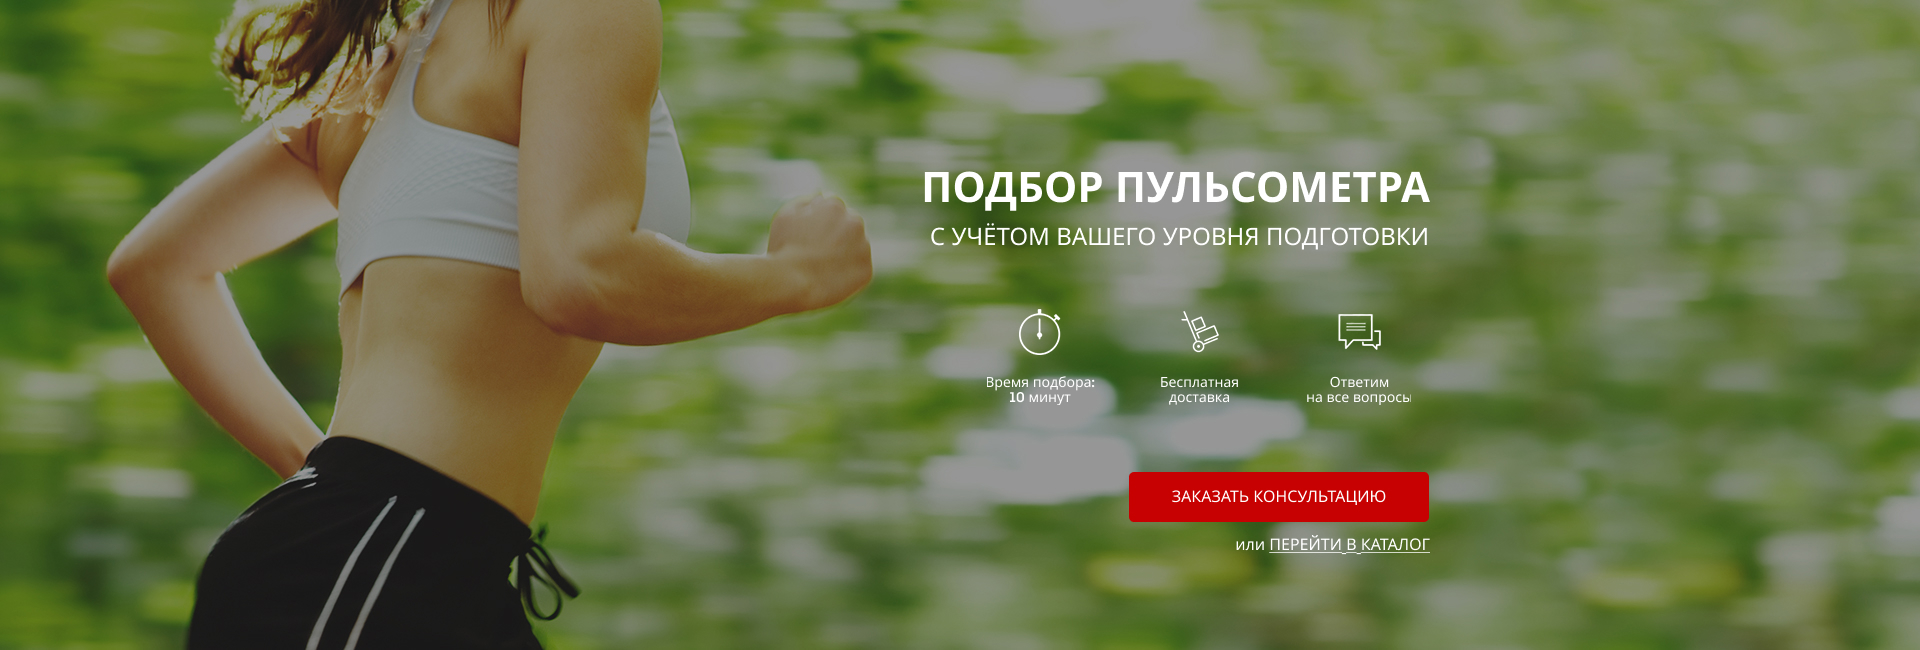
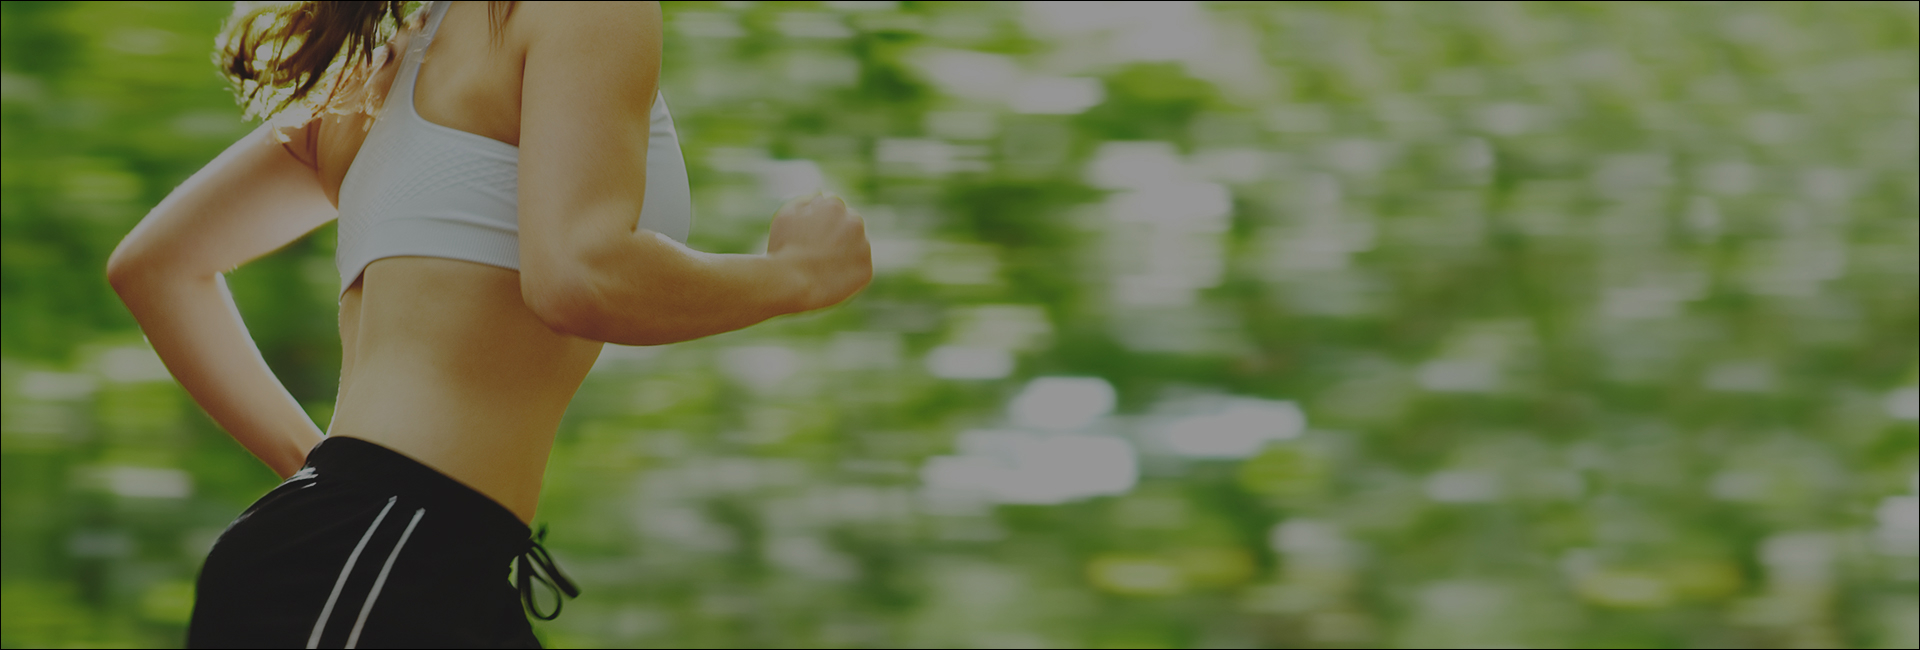
added header.sass, promo.sass, added header in index.html

diff --git a/src/css/bootstrap-reboot.min.css b/src/css/bootstrap-reboot.min.css
@@ -1,0 +1,8 @@
+/*!
+ * Bootstrap Reboot v4.1.3 (https://getbootstrap.com/)
+ * Copyright 2011-2018 The Bootstrap Authors
+ * Copyright 2011-2018 Twitter, Inc.
+ * Licensed under MIT (https://github.com/twbs/bootstrap/blob/master/LICENSE)
+ * Forked from Normalize.css, licensed MIT (https://github.com/necolas/normalize.css/blob/master/LICENSE.md)
+ */*,::after,::before{box-sizing:border-box}html{font-family:sans-serif;line-height:1.15;-webkit-text-size-adjust:100%;-ms-text-size-adjust:100%;-ms-overflow-style:scrollbar;-webkit-tap-highlight-color:transparent}@-ms-viewport{width:device-width}article,aside,figcaption,figure,footer,header,hgroup,main,nav,section{display:block}body{margin:0;font-family:-apple-system,BlinkMacSystemFont,"Segoe UI",Roboto,"Helvetica Neue",Arial,sans-serif,"Apple Color Emoji","Segoe UI Emoji","Segoe UI Symbol","Noto Color Emoji";font-size:1rem;font-weight:400;line-height:1.5;color:#212529;text-align:left;background-color:#fff}[tabindex="-1"]:focus{outline:0!important}hr{box-sizing:content-box;height:0;overflow:visible}h1,h2,h3,h4,h5,h6{margin-top:0;margin-bottom:.5rem}p{margin-top:0;margin-bottom:1rem}abbr[data-original-title],abbr[title]{text-decoration:underline;-webkit-text-decoration:underline dotted;text-decoration:underline dotted;cursor:help;border-bottom:0}address{margin-bottom:1rem;font-style:normal;line-height:inherit}dl,ol,ul{margin-top:0;margin-bottom:1rem}ol ol,ol ul,ul ol,ul ul{margin-bottom:0}dt{font-weight:700}dd{margin-bottom:.5rem;margin-left:0}blockquote{margin:0 0 1rem}dfn{font-style:italic}b,strong{font-weight:bolder}small{font-size:80%}sub,sup{position:relative;font-size:75%;line-height:0;vertical-align:baseline}sub{bottom:-.25em}sup{top:-.5em}a{color:#007bff;text-decoration:none;background-color:transparent;-webkit-text-decoration-skip:objects}a:hover{color:#0056b3;text-decoration:underline}a:not([href]):not([tabindex]){color:inherit;text-decoration:none}a:not([href]):not([tabindex]):focus,a:not([href]):not([tabindex]):hover{color:inherit;text-decoration:none}a:not([href]):not([tabindex]):focus{outline:0}code,kbd,pre,samp{font-family:SFMono-Regular,Menlo,Monaco,Consolas,"Liberation Mono","Courier New",monospace;font-size:1em}pre{margin-top:0;margin-bottom:1rem;overflow:auto;-ms-overflow-style:scrollbar}figure{margin:0 0 1rem}img{vertical-align:middle;border-style:none}svg{overflow:hidden;vertical-align:middle}table{border-collapse:collapse}caption{padding-top:.75rem;padding-bottom:.75rem;color:#6c757d;text-align:left;caption-side:bottom}th{text-align:inherit}label{display:inline-block;margin-bottom:.5rem}button{border-radius:0}button:focus{outline:1px dotted;outline:5px auto -webkit-focus-ring-color}button,input,optgroup,select,textarea{margin:0;font-family:inherit;font-size:inherit;line-height:inherit}button,input{overflow:visible}button,select{text-transform:none}[type=reset],[type=submit],button,html [type=button]{-webkit-appearance:button}[type=button]::-moz-focus-inner,[type=reset]::-moz-focus-inner,[type=submit]::-moz-focus-inner,button::-moz-focus-inner{padding:0;border-style:none}input[type=checkbox],input[type=radio]{box-sizing:border-box;padding:0}input[type=date],input[type=datetime-local],input[type=month],input[type=time]{-webkit-appearance:listbox}textarea{overflow:auto;resize:vertical}fieldset{min-width:0;padding:0;margin:0;border:0}legend{display:block;width:100%;max-width:100%;padding:0;margin-bottom:.5rem;font-size:1.5rem;line-height:inherit;color:inherit;white-space:normal}progress{vertical-align:baseline}[type=number]::-webkit-inner-spin-button,[type=number]::-webkit-outer-spin-button{height:auto}[type=search]{outline-offset:-2px;-webkit-appearance:none}[type=search]::-webkit-search-cancel-button,[type=search]::-webkit-search-decoration{-webkit-appearance:none}::-webkit-file-upload-button{font:inherit;-webkit-appearance:button}output{display:inline-block}summary{display:list-item;cursor:pointer}template{display:none}[hidden]{display:none!important}
+/*# sourceMappingURL=bootstrap-reboot.min.css.map */

diff --git a/src/index.html b/src/index.html
@@ -1,0 +1,35 @@
+<!DOCTYPE html>
+<html lang="ru">
+<head>
+    <meta charset="UTF-8">
+    <meta http-equiv="X-UA-Compatible" content="IE=edge">
+    <meta name="viewport" content="width=device-width, initial-scale=1.0">
+    <link rel="stylesheet" href="css/bootstrap-reboot.min.css">
+    <link rel="stylesheet" href="fonts/MuseoSans-300.otf">
+    <link rel="stylesheet" href="fonts/MuseoModerno-VariableFont_wght.ttf">
+    <link rel="stylesheet" href="css/style.min.css">
+    <title>Pulse</title>
+</head>
+<body>
+
+    <div class="promo">
+        <div class="container">
+
+            <header class="header">
+                <a href="#" class="header__logo"> <img src="icons/logo.png" alt=""> </a>
+                <div class="header__official">
+                    Официальный представитель 
+                    <span>Garmin, Polar, Suunto</span> 
+                </div>
+                <div class="header__contact">
+                    <a href="tel:+74999228974" class="header__phone">+7 (499) 922-89-74</a>
+                    <button class="button">заказать звонок</button>
+                </div>
+            </header>
+
+
+        </div>
+    </div>
+    
+</body>
+</html>

diff --git a/src/css/style.min.css b/src/css/style.min.css
@@ -1,1 +1,1 @@
-*{font-family:"Museo Sans",sans-serif}
+*{font-family:"Museo Sans",sans-serif}.container{max-width:950px;margin:0 auto}.promo{min-height:650px;padding:21px 0 93px;background:url(../../img/first_screen.jpg) center center/cover no-repeat}

diff --git a/src/sass/style.sass b/src/sass/style.sass
@@ -4,3 +4,10 @@
 
 *
     font-family: 'Museo Sans', sans-serif
+
+.container
+    max-width: 950px
+    margin: 0 auto
+
+@import 'blocks/_promo'
+@import 'blocks/_header'

diff --git a/src/sass/blocks/_promo.sass b/src/sass/blocks/_promo.sass
@@ -1,0 +1,4 @@
+.promo
+    min-height: 650px
+    padding: 21px 0 93px
+    background: url('../../img/first_screen.jpg') center center/cover no-repeat

diff --git a/src/sass/_variable.sass b/src/sass/_variable.sass
@@ -1,0 +1,2 @@
+$main-color: #C70101
+$second-color: #000
